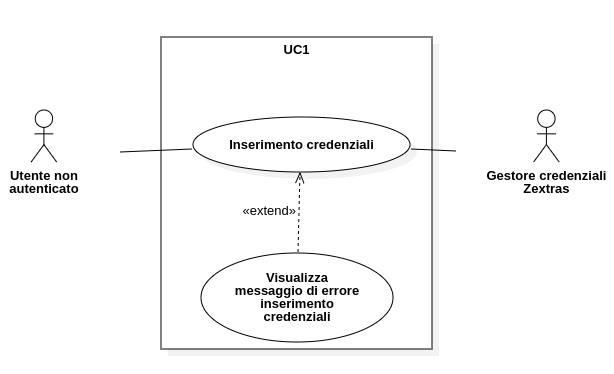
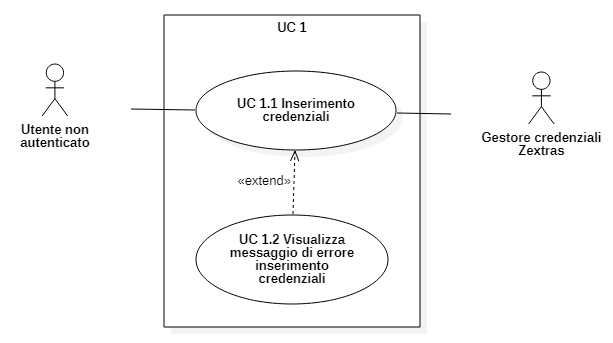
Sistemato UC1

diff --git a/Esterni/AnalisiDeiRequisiti/components/uc/uc1.tex b/Esterni/AnalisiDeiRequisiti/components/uc/uc1.tex
@@ -4,6 +4,7 @@
     \includegraphics[scale = 0.7]{components/img/UC1.png}
     \caption{UC1 - Autenticazione}
 \end{figure}
+\subsubsection{UC1.1 - Inserimento credenziali}
 \begin{itemize}
 \item \textbf{Attore Primario:} Utente;
 \item \textbf{Attore Secondario:} Gestore credenziali Zextras;
@@ -16,6 +17,19 @@
     \end{enumerate}
 \item \textbf{Estensioni:}
 \begin{itemize}
-\item Visualizzazione messaggio di errore inserimento credenziali (UC4 \S{}\ref{UC4}).
+\item Visualizzazione messaggio di errore inserimento credenziali (UC1.2 \S{}\ref{UC1.2}).
 \end{itemize}
+\end{itemize}
+
+\subsubsection{UC1.2 - Visualizzazione messaggio di errore inserimento credenziali}
+\label{UC1.2}
+\begin{itemize}
+\item \textbf{Attore Primario:} Utente non autenticato;
+\item \textbf{Precondizione:} Il \glo{sistema} rileva un inserimento di credenziali errate;
+\item \textbf{Postcondizione:} L'utente viene informato che le credenziali da lui inserite sono errate;
+\item \textbf{Scenario principale:}
+    \begin{enumerate}
+    \item L'utente ha inserito delle credenziali;
+    \item Il \glo{sistema} rileva che le credenziali inserite sono sbagliate.
+    \end{enumerate}
 \end{itemize}

diff --git a/Esterni/AnalisiDeiRequisiti/components/casiuso.tex b/Esterni/AnalisiDeiRequisiti/components/casiuso.tex
@@ -26,8 +26,6 @@ Essendo il progetto finalizzato alla creazione di un applicativo per la sincroni
 
 \input{components/uc/uc3.tex}%Visualizzazione dei trasferimenti
 
-\input{components/uc/uc4.tex}%Visualizzazione messaggio di errore inserimento credenziali
-
 \input{components/uc/uc5.tex}%Visualizzazione messaggio di errore di rete
 
 \input{components/uc/uc6.tex}%Visualizzazione messaggio di errore file troppo grande
